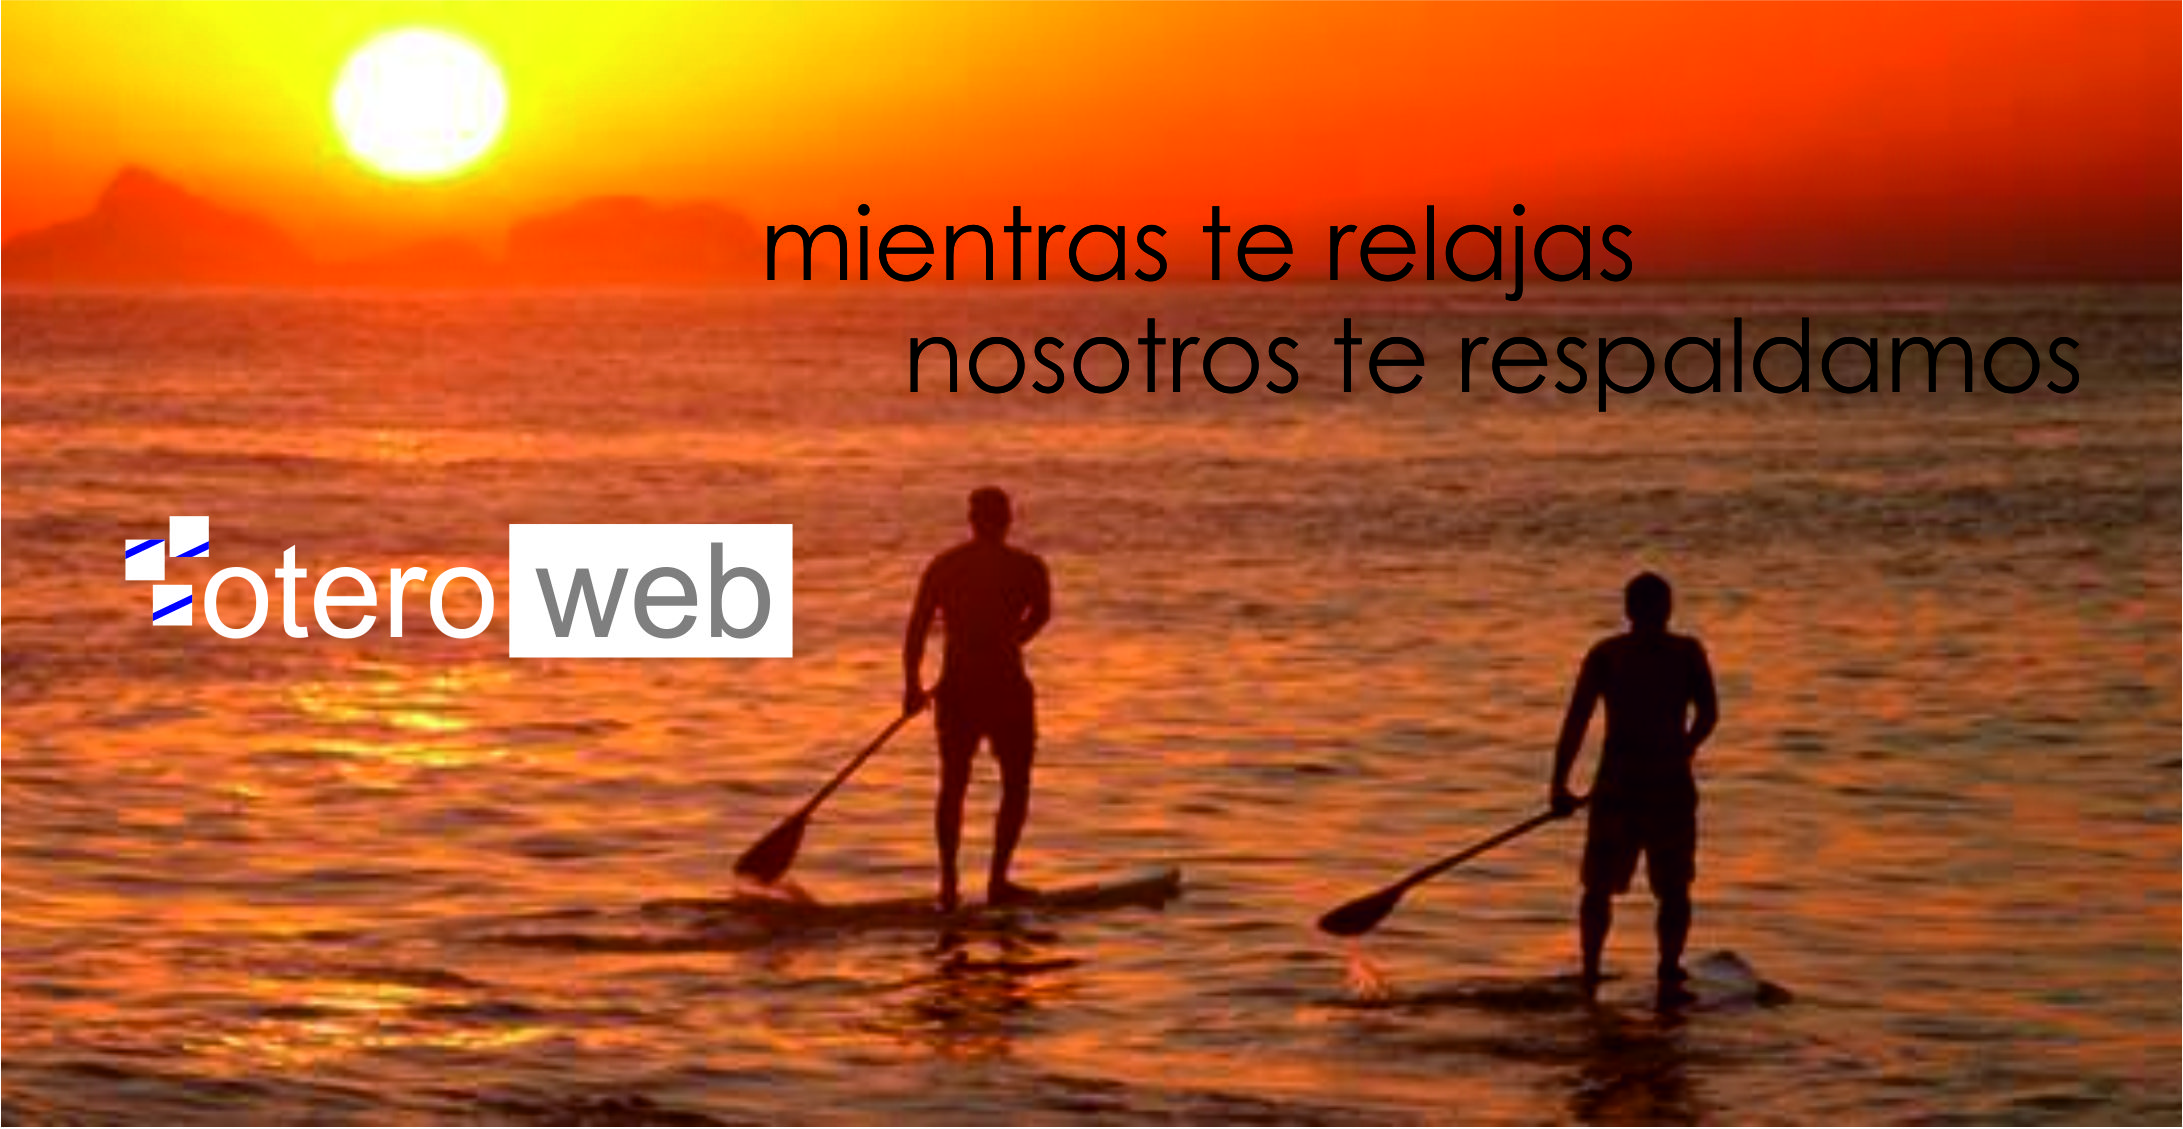
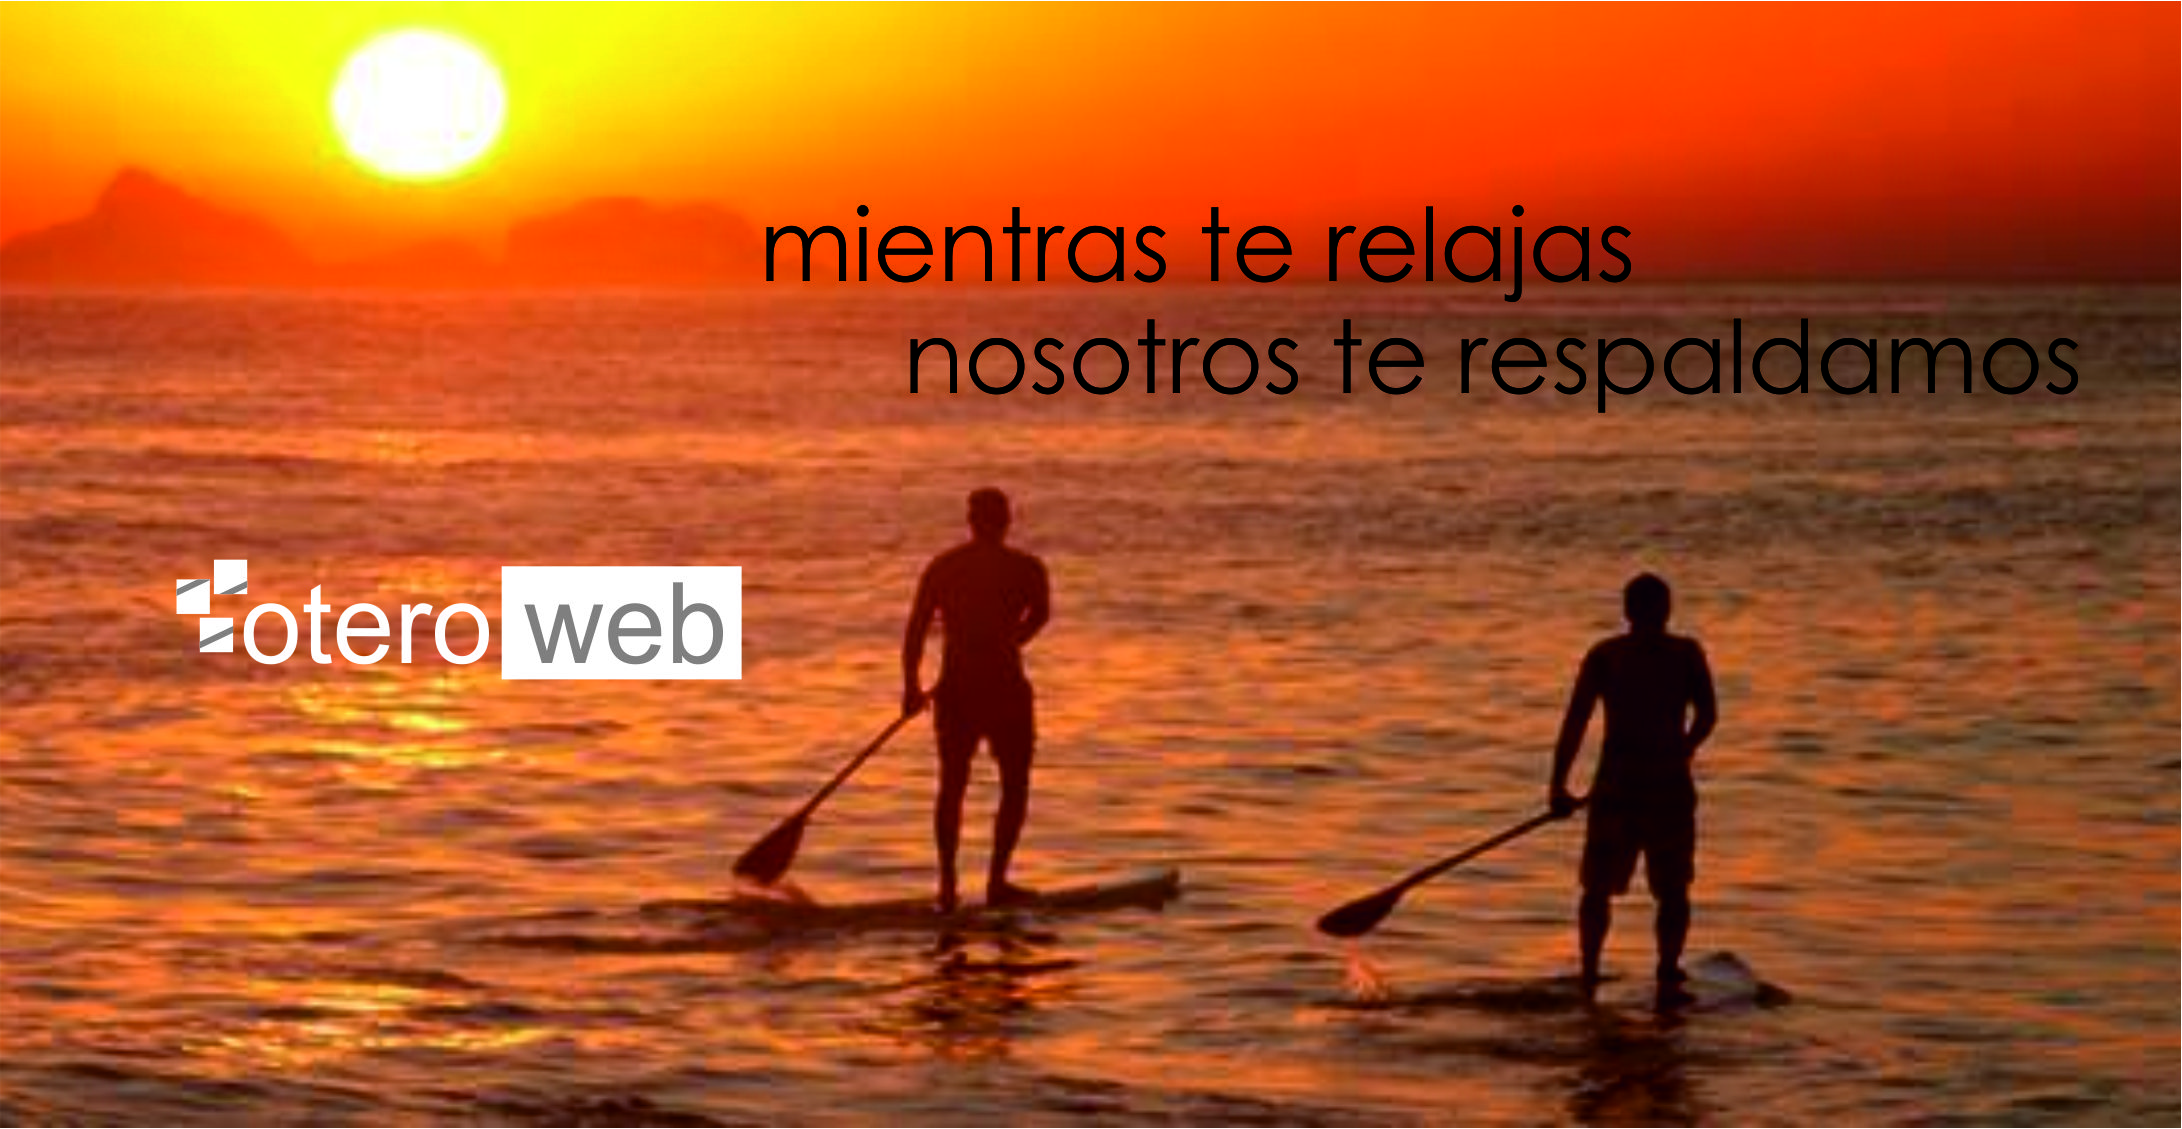
clientes

diff --git a/clientes.html b/clientes.html
@@ -13,7 +13,7 @@
 <body>
   <nav class="white" role="navigation">
     <div class="nav-wrapper container">
-    <a id="logo-container" href="#"><img class="responsive-img" class="logo" src="brand-logo.jpg"></a>
+    <a id="logo-container" href="http://oteroweb.com.ve"><img class="responsive-img" class="logo" src="logo.png"></a>
             <ul class="right hide-on-med-and-down">
         <li><a href="nosotros.html">NOSOTROS</a></li>
         <li><a href="clientes.html">CLIENTES</a></li>
@@ -63,41 +63,11 @@
   <div class="container">
     <div class="section">
 
-      <!--   Icon Section   -->
-      <div class="row">
-        <div class="col s12 m4">
-          <div class="icon-block">
-            <h2 class="center brown-text"><i class="material-icons">flash_on</i></h2>
-            <h5 class="center">Speeds up development</h5>
-
-            <p class="light">We did most of the heavy lifting for you to provide a default stylings that incorporate our custom components. Additionally, we refined animations and transitions to provide a smoother experience for developers.</p>
-          </div>
-        </div>
-
-        <div class="col s12 m4">
-          <div class="icon-block">
-            <h2 class="center brown-text"><i class="material-icons">group</i></h2>
-            <h5 class="center">User Experience Focused</h5>
-
-            <p class="light">By utilizing elements and principles of Material Design, we were able to create a framework that incorporates components and animations that provide more feedback to users. Additionally, a single underlying responsive system across all platforms allow for a more unified user experience.</p>
-          </div>
-        </div>
-
-        <div class="col s12 m4">
-          <div class="icon-block">
-            <h2 class="center brown-text"><i class="material-icons">settings</i></h2>
-            <h5 class="center">Easy to work with</h5>
-
-            <p class="light">We have provided detailed documentation as well as specific code examples to help new users get started. We are also always open to feedback and can answer any questions a user may have about Materialize.</p>
-          </div>
-        </div>
-      </div>
-
-    </div>
-  </div>
+          
+      
 
 
-  <div class="parallax-container valign-wrapper">
+  <!--<div class="parallax-container valign-wrapper">
     <div class="section no-pad-bot">
       <div class="container">
         <div class="row center">
@@ -106,39 +76,71 @@
       </div>
     </div>
     <div class="parallax"><img class="responsive-img" src="background2.jpg" alt="Unsplashed background img 2"></div>
-  </div>
-
-  <div class="container">
+  </div>-->
+<div class="container">
     <div class="section">
 
       <div class="row">
         <div class="col s12 center">
           <h3><i class="mdi-content-send brown-text"></i></h3>
-          <h4>Contact Us</h4>
-          <p class="left-align light">Lorem ipsum dolor sit amet, consectetur adipiscing elit. Nullam scelerisque id nunc nec volutpat. Etiam pellentesque tristique arcu, non consequat magna fermentum ac. Cras ut ultricies eros. Maecenas eros justo, ullamcorper a sapien id, viverra ultrices eros. Morbi sem neque, posuere et pretium eget, bibendum sollicitudin lacus. Aliquam eleifend sollicitudin diam, eu mattis nisl maximus sed. Nulla imperdiet semper molestie. Morbi massa odio, condimentum sed ipsum ac, gravida ultrices erat. Nullam eget dignissim mauris, non tristique erat. Vestibulum ante ipsum primis in faucibus orci luctus et ultrices posuere cubilia Curae;</p>
+          <h4>Testimoniales</h4>
+          <p class="center" class="left-align light">Nuestra clientela confirma con hechos y con sus testimonios, cómo ha sido su experiencia contratando servicios de diferentes índoles con OteroWeb</p>
         </div>
       </div>
 
     </div>
   </div>
+  <div class="row">
+        <div class="col s12 m4">
+          <div class="icon-block">
+            <a id="logo-container" href="http://oteroweb.com.ve"><img class="responsive-img" class="logo" src="logotaboa.png"></a>
+            <h5 class="center">TABOA, C.A.</h5>
+
+            <p class="light">Nosotros como pequeña y mediana empresa emprendedora decidimos acudir a asesoría personalizada sobre nuestra imagen, recibimos en OteroWeb la mejor atención y fue satisfactorio el poder trabajar con ellos el personal de diseño muy atento y eficaz.</p>
+          </div>
+        </div>
+
+        <div class="col s12 m4">
+          <div class="icon-block">
+            <a id="logo-container" href="http://oteroweb.com.ve"><img class="responsive-img" class="logo" src="corpo_graphic_logo.jpg"></a>
+            <h5 class="center">Corporación Gráfica, S.A.</h5>
+
+            <p class="light">Con OteroWeb recibimos asesoria personalizada durante un mes sobre problemática interna con códigos en la plataforma laravel</p>
+          </div>
+        </div>
+
+        <div class="col s12 m4">
+          <div class="icon-block">
+            <a id="logo-container" href="http://oteroweb.com.ve"><img class="responsive-img" class="logo" src="logogen.jpg"></a>
+            <h5 class="center">GEN AD SHARE</h5>
+
+            <p class="light">Empresa ubicada en Mexico, nos encontramos satisfechos con el trabajo en el area de backend y manejo de condigos de sistema especializado plataforma de cobros online.</p>
+          </div>
+        </div>
+      </div>
+
+    </div>
+  </div>
+
+  
 
 
   <div class="parallax-container valign-wrapper">
     <div class="section no-pad-bot">
       <div class="container">
         <div class="row center">
-          <h5 class="header col s12 light">A modern responsive front-end framework based on Material Design</h5>
+          <h5 class="header col s12 light"></h5>
         </div>
       </div>
     </div>
-    <div class="parallax"><img class="responsive-img" src="background3.jpg" alt="Unsplashed background img 3"></div>
+    <div class="parallax"><img class="responsive-img" src="logosclientes.jpg" alt="Unsplashed background img 3"></div>
   </div>
 
   <footer class="page-footer teal">
     <div class="container">
       <div class="row">
         <div class="col l6 s12">
-          <h6 class="white-text">Tips Emprendedores</h6>
+          <h6 class="white-text">.::Tips::.</h6>
           <p class="grey-text text-lighten-4">“Estoy convencido que la mitad de lo que separa a los emprendedores exitosos de los que han fracasado es la perseverancia” - Steve Jobs, cofundador de Apple.</p>
 
 
@@ -164,8 +166,8 @@
       </div>
     </div>
     <div class="footer-copyright">
-      <div class="container">
-      Todos los Derechos Reservados <a class="brown-text text-lighten-3" href="http://materializecss.com">Oteroweb.com.ve ®2016</a>
+      <div class= "center" class="container">
+      Todos los Derechos Reservados <a class="brown-text text-lighten-3" href="http://oteroweb.com.ve">Oteroweb.com.ve ®2016</a>
       </div>
     </div>
   </footer>

diff --git a/contacto.html b/contacto.html
@@ -13,7 +13,7 @@
 <body>
   <nav class="white" role="navigation">
     <div class="nav-wrapper container">
-    <a id="logo-container" href="#"><img class="responsive-img" class="logo" src="brand-logo.jpg"></a>
+    <a id="logo-container" href="http://oteroweb.com.ve"><img class="responsive-img" class="logo" src="logo.png"></a>
             <ul class="right hide-on-med-and-down">
         <li><a href="nosotros.html">NOSOTROS</a></li>
         <li><a href="clientes.html">CLIENTES</a></li>
@@ -138,7 +138,7 @@
     <div class="container">
       <div class="row">
         <div class="col l6 s12">
-          <h6 class="white-text">Tips Emprendedores</h6>
+          <h6 class="white-text">.::Tips::.</h6>
           <p class="grey-text text-lighten-4">“Estoy convencido que la mitad de lo que separa a los emprendedores exitosos de los que han fracasado es la perseverancia” - Steve Jobs, cofundador de Apple.</p>
 
 
@@ -164,8 +164,8 @@
       </div>
     </div>
     <div class="footer-copyright">
-      <div class="container">
-      Todos los Derechos Reservados <a class="brown-text text-lighten-3" href="http://materializecss.com">Oteroweb.com.ve ®2016</a>
+      <div class= "center" class="container">
+      Todos los Derechos Reservados <a class="brown-text text-lighten-3" href="http://oteroweb.com.ve">Oteroweb.com.ve ®2016</a>
       </div>
     </div>
   </footer>

diff --git a/nosotros.html b/nosotros.html
@@ -13,7 +13,7 @@
 <body>
   <nav class="white" role="navigation">
     <div class="nav-wrapper container">
-    <a id="logo-container" href="#"><img class="responsive-img" class="logo" src="brand-logo.jpg"></a>
+    <a id="logo-container" href="http://oteroweb.com.ve"><img class="responsive-img" class="logo" src="logo.png"></a>
             <ul class="right hide-on-med-and-down">
         <li><a href="nosotros.html">NOSOTROS</a></li>
         <li><a href="clientes.html">CLIENTES</a></li>
@@ -138,7 +138,7 @@
     <div class="container">
       <div class="row">
         <div class="col l6 s12">
-          <h6 class="white-text">Tips Emprendedores</h6>
+          <h6 class="white-text">.::Tips::.</h6>
           <p class="grey-text text-lighten-4">“Estoy convencido que la mitad de lo que separa a los emprendedores exitosos de los que han fracasado es la perseverancia” - Steve Jobs, cofundador de Apple.</p>
 
 
@@ -164,8 +164,8 @@
       </div>
     </div>
     <div class="footer-copyright">
-      <div class="container">
-      Todos los Derechos Reservados <a class="brown-text text-lighten-3" href="http://materializecss.com">Oteroweb.com.ve ®2016</a>
+      <div class= "center" class="container">
+      Todos los Derechos Reservados <a class="brown-text text-lighten-3" href="http://oteroweb.com.ve">Oteroweb.com.ve ®2016</a>
       </div>
     </div>
   </footer>

diff --git a/productos.html b/productos.html
@@ -13,7 +13,7 @@
 <body>
   <nav class="white" role="navigation">
     <div class="nav-wrapper container">
-    <a id="logo-container" href="#"><img class="responsive-img" class="logo" src="brand-logo.jpg"></a>
+    <a id="logo-container" href="http://oteroweb.com.ve"><img class="responsive-img" class="logo" src="logo.png"></a>
             <ul class="right hide-on-med-and-down">
         <li><a href="nosotros.html">NOSOTROS</a></li>
         <li><a href="clientes.html">CLIENTES</a></li>
@@ -138,7 +138,7 @@
     <div class="container">
       <div class="row">
         <div class="col l6 s12">
-          <h6 class="white-text">Tips Emprendedores</h6>
+          <h6 class="white-text">.::Tips::.</h6>
           <p class="grey-text text-lighten-4">“Estoy convencido que la mitad de lo que separa a los emprendedores exitosos de los que han fracasado es la perseverancia” - Steve Jobs, cofundador de Apple.</p>
 
 
@@ -164,8 +164,8 @@
       </div>
     </div>
     <div class="footer-copyright">
-      <div class="container">
-      Todos los Derechos Reservados <a class="brown-text text-lighten-3" href="http://materializecss.com">Oteroweb.com.ve ®2016</a>
+      <div class= "center" class="container">
+      Todos los Derechos Reservados <a class="brown-text text-lighten-3" href="http://oteroweb.com.ve">Oteroweb.com.ve ®2016</a>
       </div>
     </div>
   </footer>

diff --git a/servicios.html b/servicios.html
@@ -13,7 +13,7 @@
 <body>
   <nav class="white" role="navigation">
     <div class="nav-wrapper container">
-    <a id="logo-container" href="#"><img class="responsive-img" class="logo" src="brand-logo.jpg"></a>
+    <a id="logo-container" href="http://oteroweb.com.ve"><img class="responsive-img" class="logo" src="logo.png"></a>
             <ul class="right hide-on-med-and-down">
         <li><a href="nosotros.html">NOSOTROS</a></li>
         <li><a href="clientes.html">CLIENTES</a></li>
@@ -138,7 +138,7 @@
     <div class="container">
       <div class="row">
         <div class="col l6 s12">
-          <h6 class="white-text">Tips Emprendedores</h6>
+          <h6 class="white-text">.::Tips::.</h6>
           <p class="grey-text text-lighten-4">“Estoy convencido que la mitad de lo que separa a los emprendedores exitosos de los que han fracasado es la perseverancia” - Steve Jobs, cofundador de Apple.</p>
 
 
@@ -164,8 +164,8 @@
       </div>
     </div>
     <div class="footer-copyright">
-      <div class="container">
-      Todos los Derechos Reservados <a class="brown-text text-lighten-3" href="http://materializecss.com">Oteroweb.com.ve ®2016</a>
+      <div class= "center" class="container">
+      Todos los Derechos Reservados <a class="brown-text text-lighten-3" href="http://oteroweb.com.ve">Oteroweb.com.ve ®2016</a>
       </div>
     </div>
   </footer>

diff --git a/index.html b/index.html
@@ -13,7 +13,7 @@
 <body>
   <nav class="white" role="navigation">
     <div class="nav-wrapper container">
-    <a id="logo-container" href="#"><img class="logo" src="brand-logo.jpg"></a>
+    <a id="logo-container" href="http://oteroweb.com.ve"><img class="logo" src="logo.png"></a>
             <ul class="right hide-on-med-and-down">
         <li><a href="nosotros.html">NOSOTROS</a></li>
         <li><a href="clientes.html">CLIENTES</a></li>
@@ -164,7 +164,7 @@
       </div>
     </div>
     <div class="footer-copyright">
-      <div class="container">
+      <div class= "center" class="container">
       Todos los Derechos Reservados <a class="brown-text text-lighten-3" href="http://oteroweb.com.ve">Oteroweb.com.ve ®2016</a>
       </div>
     </div>

diff --git a/css/materialize.css b/css/materialize.css
@@ -2741,6 +2741,7 @@ img.responsive-img,
 video.responsive-video {
   max-width: 100%;
   height: auto;
+  padding-top: 10px;
 }
 
 .pagination li {

diff --git a/css/style.css b/css/style.css
@@ -61,7 +61,7 @@ footer.page-footer {
 
 .logo {
  
-  margin-top: 7px;
+  margin-top: 12px;
 }
 .teal {
     background-color: #020347 !important;
